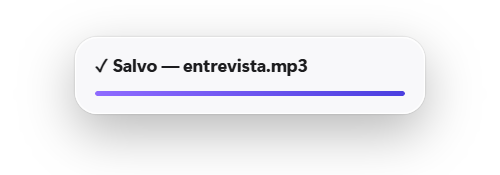
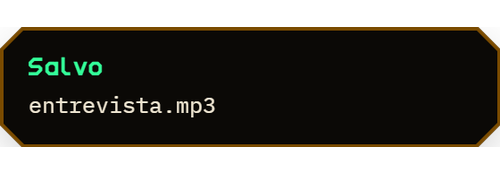
Alterações em andamento (consolidação antes da reescrita do histórico)

diff --git a/style.css b/style.css
@@ -1,18 +1,19 @@
 @font-face { font-family: "Pires Trilha"; src: url("assets/fonts/PiresTrilha-Bold.woff2") format("woff2"); font-weight: 700; font-display: swap; }
 :root {
-  --bg: #EFE6D2;
-  --surface: #E1D5B8;
-  --ink: #0B0906;
-  --muted: #54482f;
+  --bg: #0B0906;
+  --surface: #17120A;
+  --ink: #EFE6D2;
+  --muted: #B59A68;
   --accent: #FFB000;
-  --accent-ink: #7A4B00;
+  --accent-ink: #FFB000;
   --on-accent: #0B0906;
   --ok: #33FF99;
   --accent-press: #FFC53D;
   --night: #0B0906;
-  --stage: #17120a;
+  --stage: #0F0B05;
   --on-night: #EFE6D2;
-  --on-night-muted: #BFB49A;
+  --on-night-muted: #B59A68;
+  --grid: rgba(255, 176, 0, .035);
   --step-small: clamp(0.875rem, 0.85rem + 0.1vw, 0.9375rem);
   --step-body: clamp(1.0625rem, 1rem + 0.25vw, 1.1875rem);
   --step-lead: clamp(1.25rem, 1.1rem + 0.7vw, 1.625rem);
@@ -25,7 +26,9 @@
 h1, h2, .mark, .giant, .small-mark, .brand { font-family: "Pires Trilha", "Chakra Petch", "Segoe UI", system-ui, sans-serif; font-weight: 700; }
 html { scroll-behavior: smooth; }
 body {
-  margin: 0; background: var(--bg); color: var(--ink);
+  margin: 0; background-color: var(--bg); color: var(--ink);
+  background-image: linear-gradient(var(--grid) 1px, transparent 1px), linear-gradient(90deg, var(--grid) 1px, transparent 1px);
+  background-size: 48px 48px;
   font: 400 var(--step-body)/1.5 "Archivo", "Segoe UI", system-ui, sans-serif;
   -webkit-font-smoothing: antialiased;
 }
@@ -39,7 +42,7 @@ kbd { font: 600 0.92em/1 "Archivo", sans-serif; }
 
 /* ---------- botões: um formato só, pílula chapada ---------- */
 .btn {
-  display: inline-flex; align-items: center; height: 44px; padding: 0 22px; border-radius: 999px;
+  display: inline-flex; align-items: center; height: 44px; padding: 0 22px; border-radius: 0;
   background: var(--accent); color: var(--on-accent); font-weight: 700; text-decoration: none; border: 0;
   transition: background .2s, transform .15s var(--ease);
 }
@@ -56,7 +59,7 @@ kbd { font: 600 0.92em/1 "Archivo", sans-serif; }
 .bar a:not(.btn):hover { color: var(--accent); }
 
 /* ---------- divisão: palco fixo + coluna ---------- */
-.split { display: grid; grid-template-columns: 47vw 1fr; background: var(--bg); }
+.split { display: grid; grid-template-columns: 47vw 1fr; background: transparent; }
 .stage { position: sticky; top: 0; height: 100svh; padding: 20px 0 20px 20px; background: var(--night); }
 .field {
   position: relative; height: 100%; background: var(--stage); overflow: hidden;
@@ -341,3 +344,6 @@ kbd { font: 600 0.92em/1 "Archivo", sans-serif; }
 
 .keybox[hidden] { display: none; } /* display do .keybox venceria o atributo hidden */
 .lic label.check { display: flex; align-items: flex-start; gap: 8px; }
+
+/* roda no tema Circuito: rótulos claros sobre as fatias escuras */
+#wheel .seg text { fill: #EFE6D2; }
